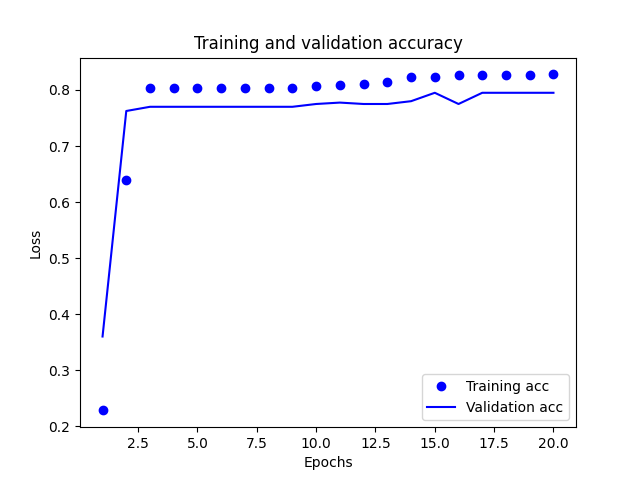
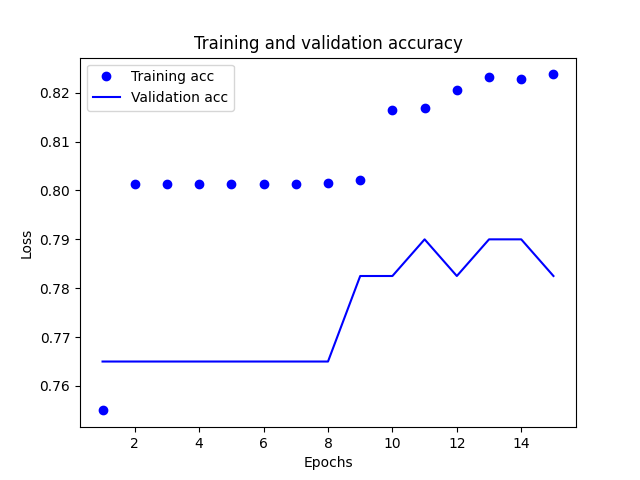
almost almost final

diff --git a/main.py b/main.py
@@ -1,7 +1,7 @@
 import pandas as pd
 import numpy as np
 import sys
-from impyute.imputation.cs import fast_knn, mice
+from impyute.imputation.cs import mice
 from data_functions import data_preprocessing, one_hot_encoding, data_normalization, get_groups_from_json
 from sklearn.ensemble import RandomForestClassifier, AdaBoostClassifier
 import matplotlib.pyplot as plt
@@ -60,21 +60,23 @@ def train_logistic_regression(X, Y, classes, features):
     return result
 
 
-def train_neural_network(X, Y, epochs, features, classes):
+def train_neural_network(X, Y, epochs, features, classes, X_test):
     X_train = X[:3200, :]
     Y_train = one_hot_encoding(classes, Y[:3200])
     X_val = X[3200:3600, :]
     Y_val = one_hot_encoding(classes, Y[3200:3600])
     X_test = X[3600:4000, :]
     Y_test = one_hot_encoding(classes, Y[3600:4000])
-
+    # Y = one_hot_encoding(2, Y)
     model = models.Sequential()
 
-    model.add(layers.Dense(18, activation='relu', input_shape=(features,)))
-    model.add(layers.Dense(18, activation='relu'))
-    model.add(layers.Dense(9, activation='relu'))
+    model.add(layers.Dense(16, activation='relu', input_shape=(features,)))
+    model.add(layers.Dense(16, activation='relu'))
+    model.add(layers.Dense(8, activation='relu'))
     model.add(layers.Dense(2, activation='softmax'))
     model.compile(optimizer='rmsprop', loss='categorical_crossentropy', metrics=['accuracy'])
+    # history = model.fit(X, Y, epochs=epochs, batch_size=256)
+    # predictions = model.predict(X_test)
     history = model.fit(X_train, Y_train, epochs=epochs, batch_size=256, validation_data=(X_val, Y_val))
 
     loss = history.history['loss']
@@ -109,33 +111,40 @@ def train_neural_network(X, Y, epochs, features, classes):
 
 
 sys.setrecursionlimit(100000)
-a = pd.read_csv("Case_Assignment/train.csv")
-a = a.sort_values(['user_id'])
-data_preprocessing(a)
-data_normalization(a)
-a = pd.concat([a, get_groups_from_json('train')], axis=1)
-X = a[COLUMNS].to_numpy()
+X_train = pd.read_csv("Case_Assignment/train.csv")
+X_train = X_train.sort_values(['user_id'])
+data_preprocessing(X_train)
+data_normalization(X_train)
+X_train = pd.concat([X_train, get_groups_from_json('train')], axis=1)
+X = X_train[COLUMNS].to_numpy()
 np.random.shuffle(X)
 X, Y = X[:, 1:], X[:, 0]
-X2 = mice(X).round()
-X = fast_knn(X, 400).round()
 
-# train_neural_network(X, Y, 20, 9, 2)
+X = mice(X)
+
+# X_test = pd.read_csv("Case_Assignment/test.csv")
+# X_test = X_test.sort_values((['user_id']))
+# data_preprocessing(X_test)
+# data_normalization(X_test)
+# X_test = pd.concat([X_test, get_groups_from_json('test')], axis=1)
+# X_test = X_test[COLUMNS].to_numpy()
+# X_test = X_test[:, 1:]
+# X_test = mice(X_test)
+
+# train_neural_network(X, Y, 25, 9, 2, None)
 N = 100
-estimators = 400
+estimators = 200
 random_forest_results = []
 random_forest_results2 = []
 ada_boost_results = []
 logistic_regression_results = []
 for i in range(N):
     random_forest_results.append(train_random_forest(X, Y, estimators, 2, 9))
-    random_forest_results2.append(train_random_forest(X2, Y, estimators, 2, 9))
-    # ada_boost_results.append(train_ada_boost(X, Y, estimators, 2, 9))
-    # logistic_regression_results.append(train_logistic_regression(X, Y, 2, 9))
+    ada_boost_results.append(train_ada_boost(X, Y, estimators, 2, 9))
+    logistic_regression_results.append(train_logistic_regression(X, Y, 2, 9))
 fig = plt.figure()
-plt.plot(range(N), random_forest_results, '.-r', label='KNN data')
-plt.plot(range(N), random_forest_results2, 'o-b', label='Mice data')
+plt.plot(range(N), random_forest_results, '.-r', label='random_forest')
+plt.plot(range(N), ada_boost_results, 'o-b', label='ada_boost')
+plt.plot(range(N), logistic_regression_results, '+-y', label='logistic_regression')
 plt.legend()
-# plt.plot(range(N), random_forest_results, 'o-b')
-# plt.plot(range(N), logistic_regression_results, '+-y')
 plt.show()
